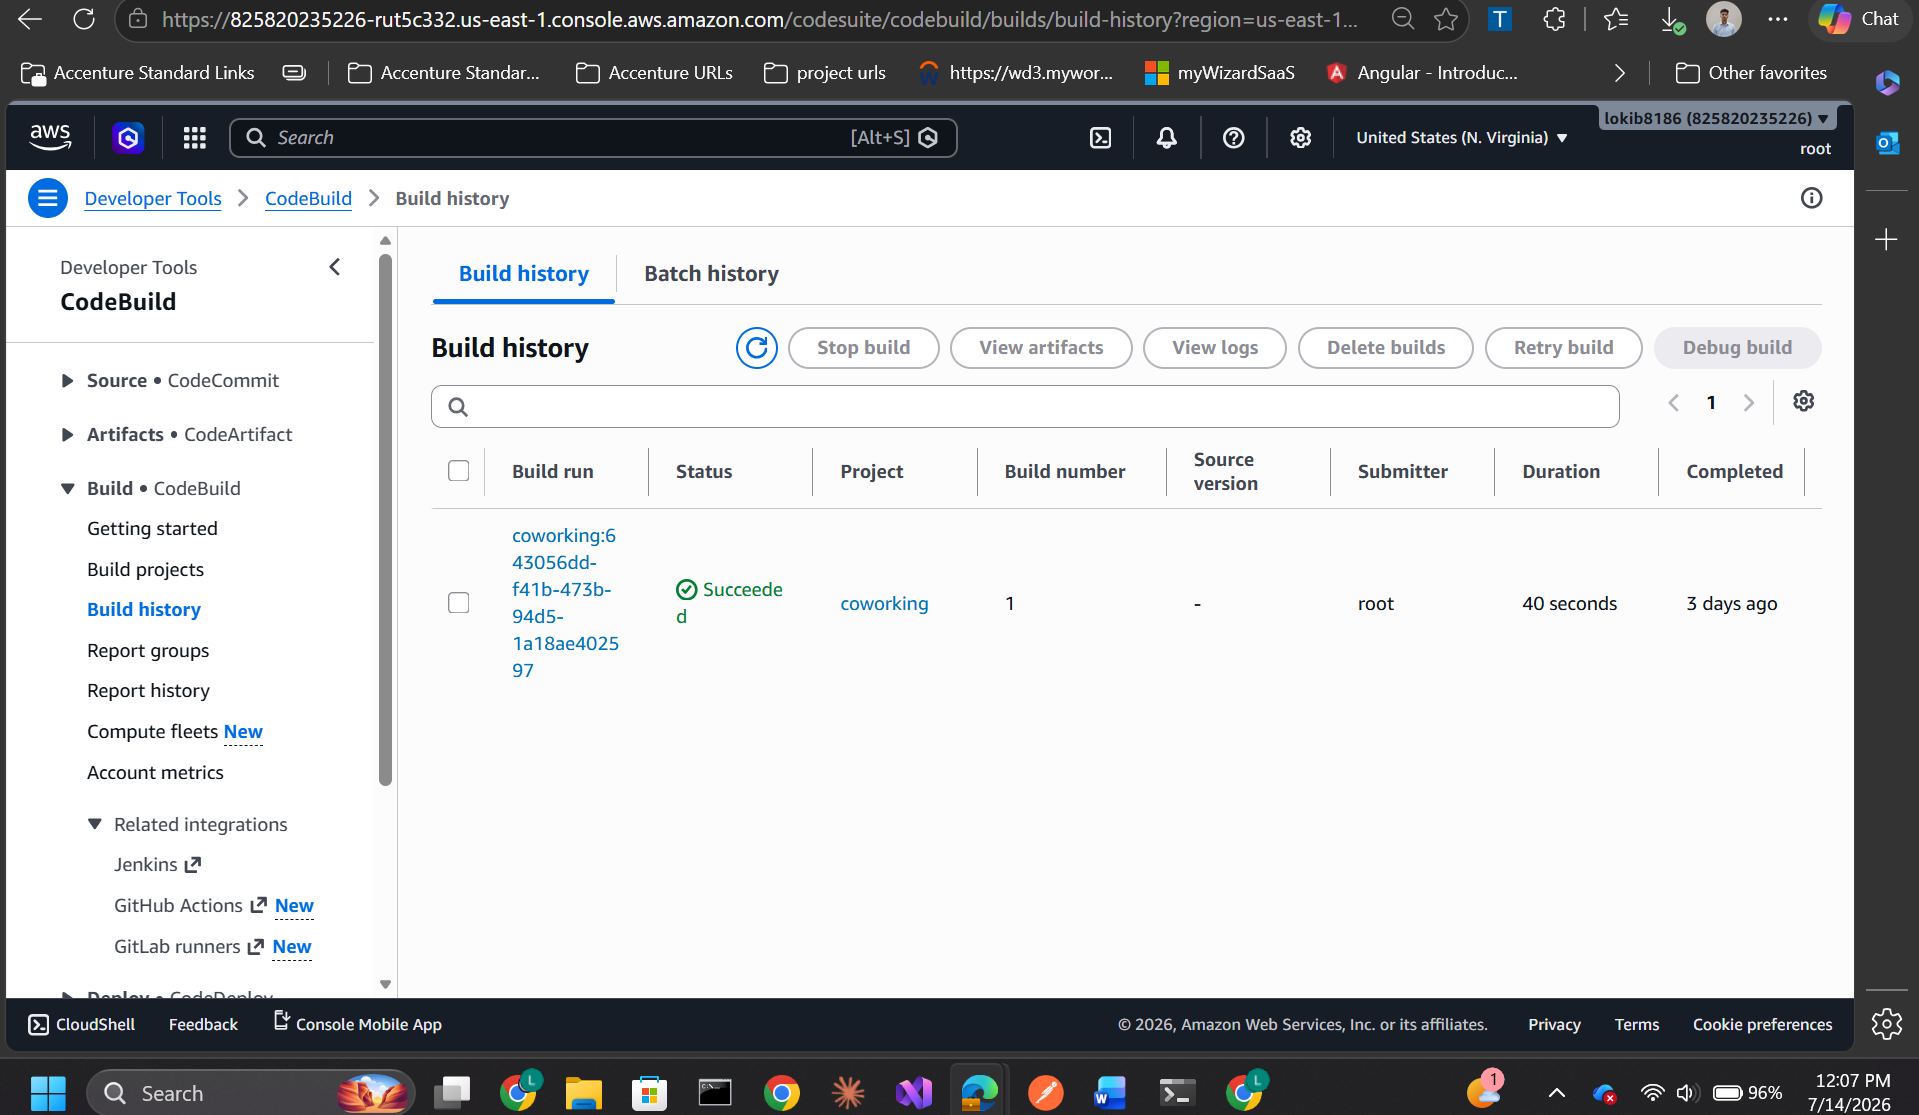
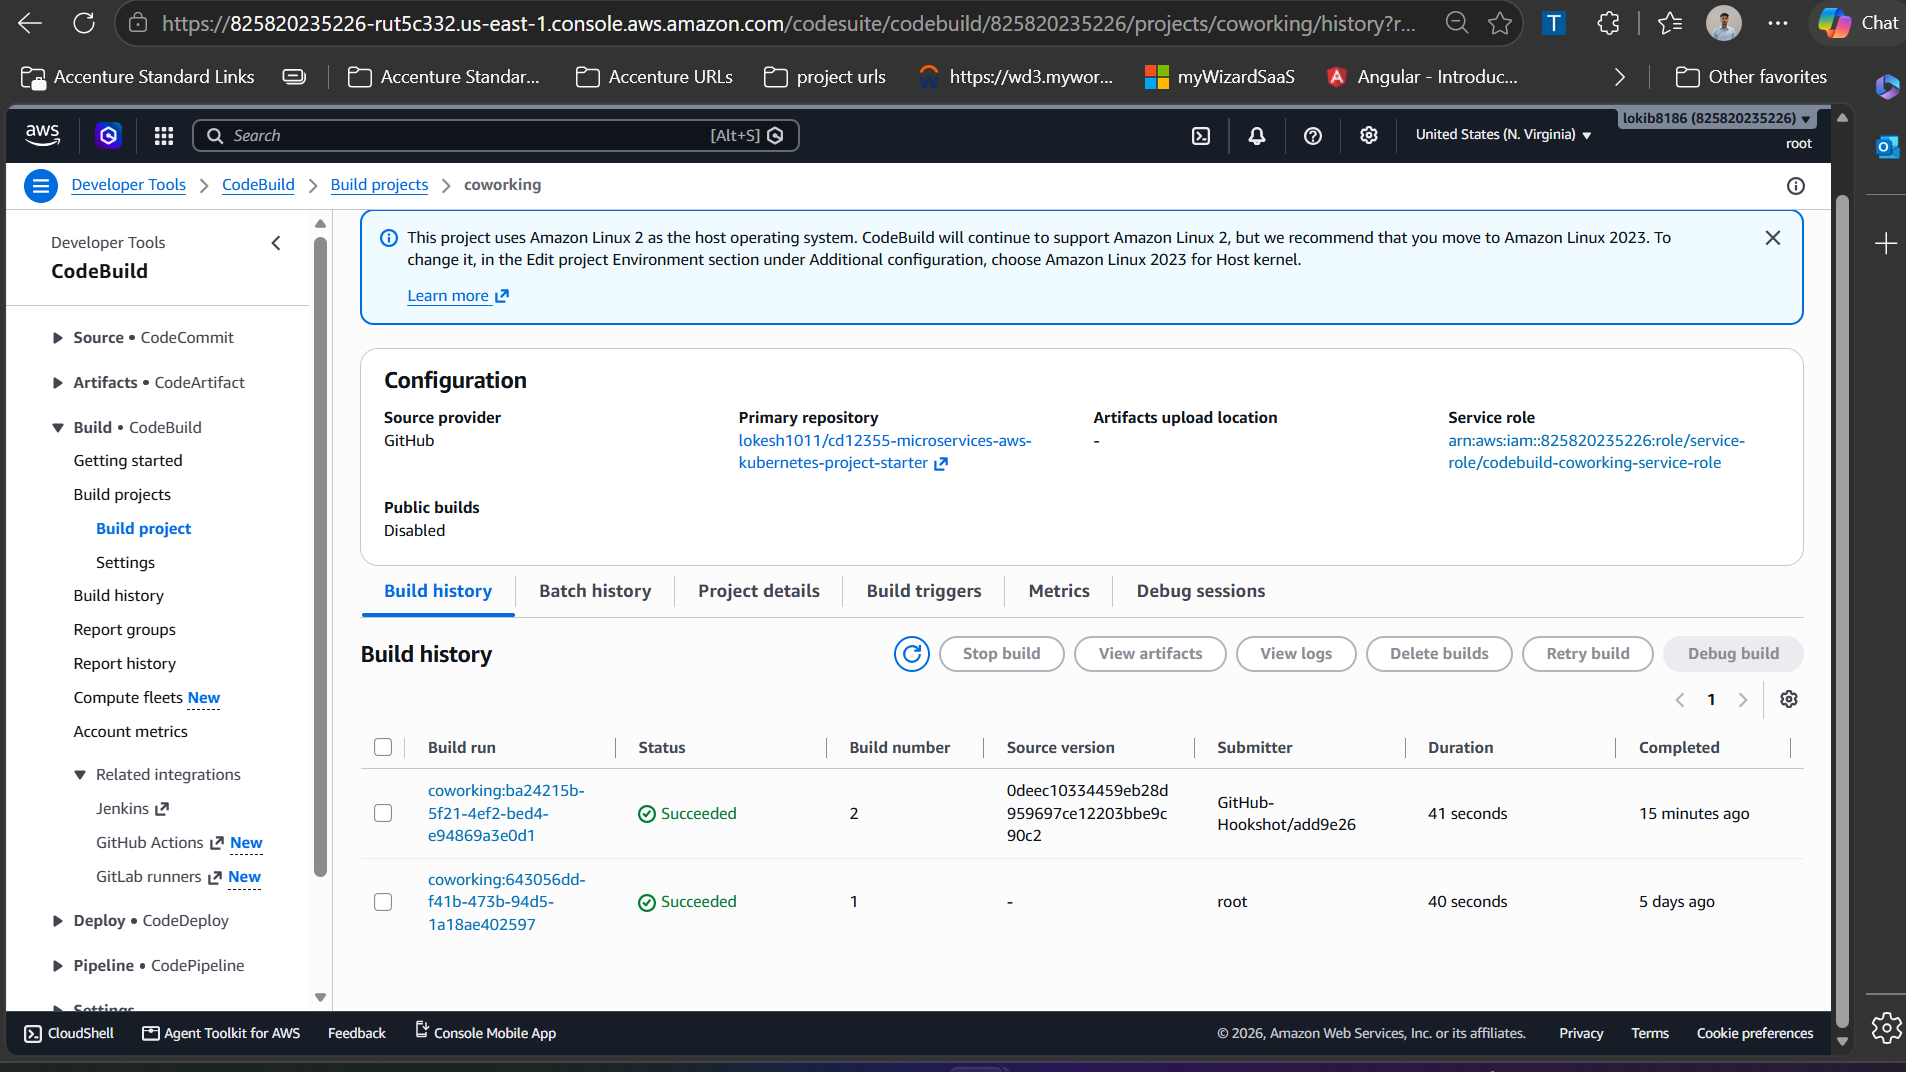
Update screenshots: webhook-triggered CodeBuild build (#1) and CloudWatch app log events (#3)

diff --git a/screenshots/README.md b/screenshots/README.md
@@ -11,6 +11,6 @@ stored in ECR, deployed to AWS EKS, and monitored with CloudWatch.
 | `04-app-health-and-daily-usage.png` | `curl /health_check` = `ok` and `/api/reports/daily_usage` returning JSON from the seeded Postgres data. |
 | `05-app-user-visits.png` | `/api/reports/user_visits` returning JSON for all seeded users. |
 | `06-ecr-image.png` | ECR repository `coworking` with image tags `1.0.1` and `latest`. |
-| `07-codebuild-build-succeeded.png` | CodeBuild build history showing a **Succeeded** build. |
+| `07-codebuild-build-succeeded.png` | CodeBuild build history — build #2 **triggered automatically by the GitHub webhook** (Submitter: `GitHub-Hookshot`, Source version = pushed commit), Succeeded. Confirms the pipeline runs on every push. |
 | `08-codebuild-project-list.png` | CodeBuild build projects list — `coworking` project, latest build Succeeded. |
-| `09-cloudwatch-application-logs.png` | CloudWatch log group `/aws/containerinsights/my-cluster/application` with the `coworking` log stream. |
+| `09-cloudwatch-application-logs.png` | CloudWatch log group `/aws/containerinsights/my-cluster/application` — actual application **log events** at periodic intervals (`/health_check` and `/readiness_check` 200s, plus `INFO in app` report output), confirming the app operates normally. |